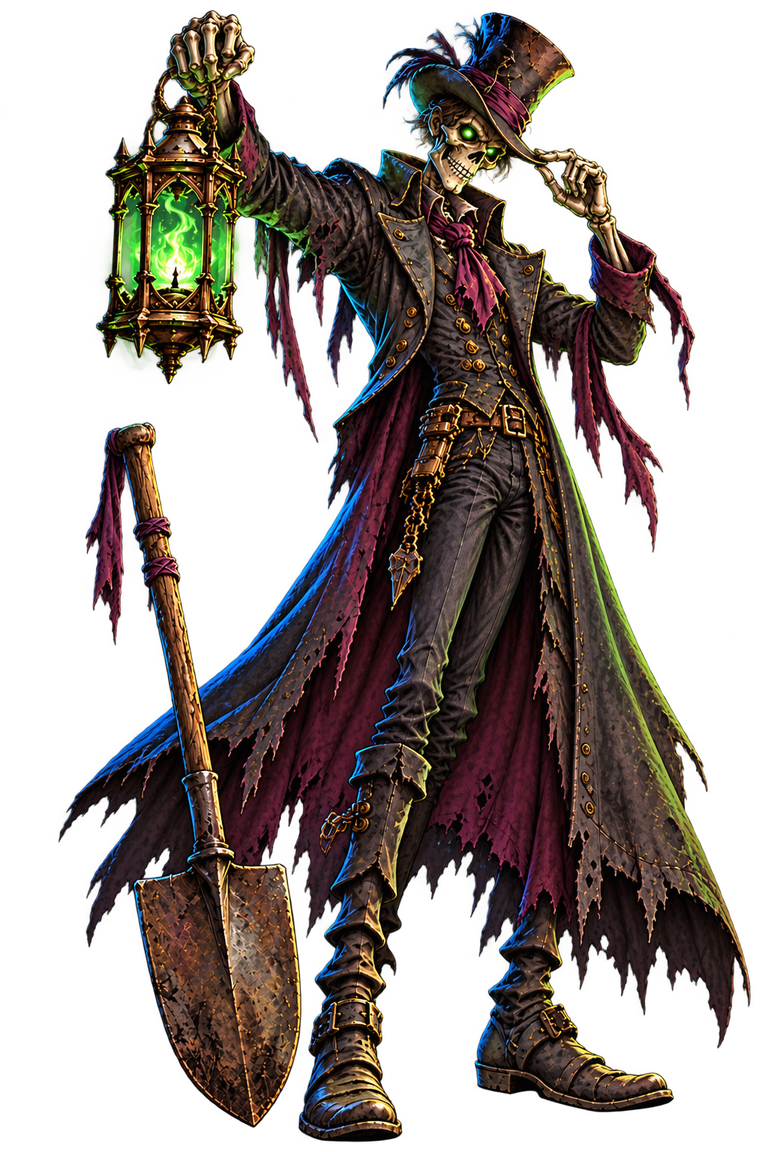
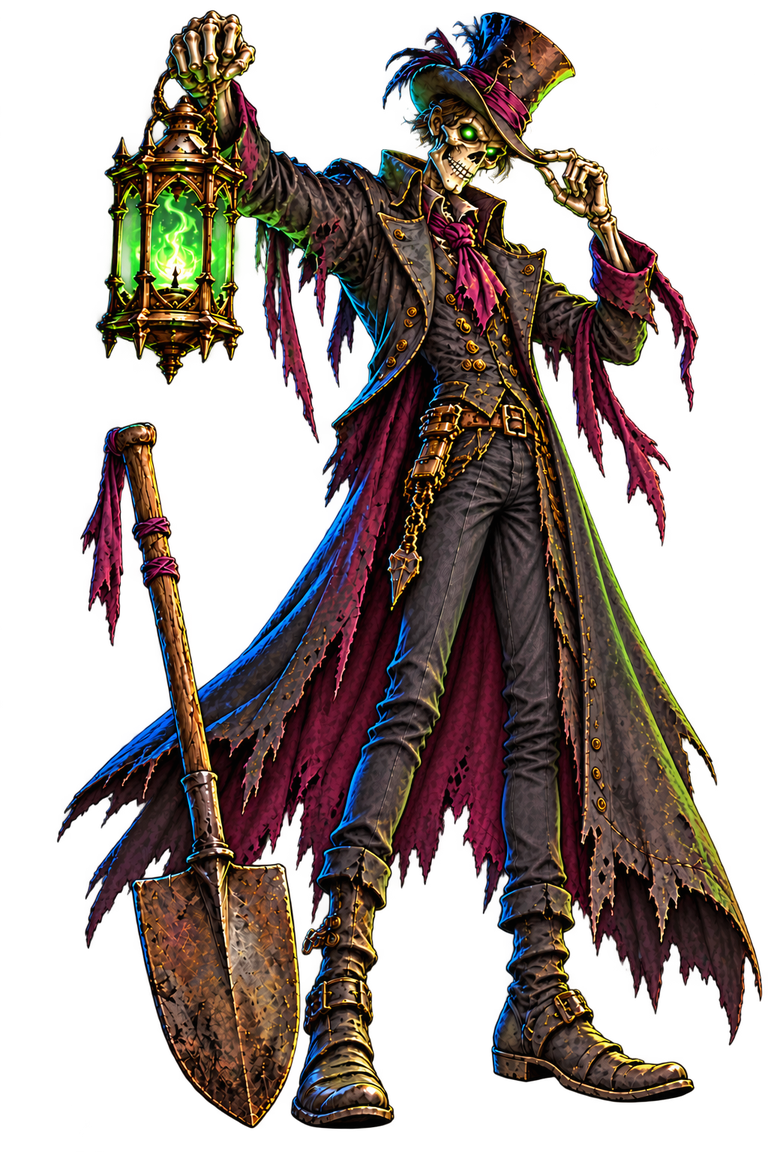
Fix Mortimer hat-tip pose to show exactly two legs

Changed region(s): [[0.0625, 0.0, 1.0, 1.0]]

diff --git a/tools/validate_assets.py b/tools/validate_assets.py
@@ -50,7 +50,7 @@ def main():
             'checks':['Source and runtime SHA-256','All 11 GDD symbol codes','Dimensions, formats, real transparency','Full guide art inventory, with three cover drafts'],
             'visualReview':['All 11 symbols reviewed at 120 px in colour and grayscale','Desktop and portrait static layouts','Three poses: two arms, two legs, no cropped hat or boots','Base/bonus backgrounds preserve scene layout'],
             'limitations':['Art-stage candidate only; no animation, audio or playable frontend','Cover dimensions await the Engine dashboard','Recovered original prompts are unavailable','Base backgrounds and bonus backgrounds are upscaled exports; source pixels retained'],
-            'publication':'Blocked pending explicit user authorization to push artwork to public GitHub'}
+            'publication':'User explicitly authorized publishing corrected artwork and project changes to graveslon on 2026-10-21'}
     (ROOT/'reports/art-validation.json').write_text(json.dumps(result,indent=2)+'\n')
     print(json.dumps(result,indent=2))
 

diff --git a/docs/PROGRESS.md b/docs/PROGRESS.md
@@ -6,7 +6,7 @@
 |---|---|---|
 | 1. GDD | Локальная спецификация готова | GDD.md: 20 линий, выплаты, 11 символов, FS, множители, режимы, единицы |
 | 2. Математика | Локальный математический этап пройден | 100 000 исходов на режим, reports/math-report.json; все 200 000 книг прошли аудит reports/validation.json |
-| 3. Арт | Локальный кандидат готов | 15 исходников восстановлены, 4 новых; 56 экспортов, 3 обложки, docs/ART.md. Размер обложки сверить с кабинетом. Push артов в публичный GitHub ожидает явного согласия |
+| 3. Арт | Локальный кандидат готов | 15 исходников восстановлены, 4 новых; 56 экспортов, 3 обложки, docs/ART.md. Размер обложки сверить с кабинетом. Отправка артов явно разрешена пользователем 21.10.2026 |
 | 4. Анимация | Не начата | Вращение, anticipation, могилы, выигрыши, фон, пропуск |
 | 5. Звук | Нужен доступ к сервису | Методичка требует платный ElevenLabs. Подключённого инструмента нет; поиск доступных плагинов не нашёл интеграцию |
 | 6. Фронтенд и RGS | Не начат | Контракт событий подготовлен; нужна реализация и реальные staging-проверки |
@@ -41,11 +41,11 @@
   workflow №39399235557 успешен; новый полный математический прогон не заявляется.
 - Работа в ветке `work/art-recovery-20261021`. Автоматическая проверка дважды
   запретила push, поскольку репозиторий публичный и нужно явное разрешение
-  на публикацию восстановленных изображений. До такого разрешения работа локальная.
+  на публикацию восстановленных изображений. Пользователь 21.10.2026 дал это разрешение и попросил продолжить работу.
 
 ## Продолжение
 
-После разрешения отправить подготовленную ветку с артами в GitHub. Затем этап 4:
+Отправить исправленный арт в GitHub, затем этап 4:
 стенд анимаций по `docs/ART.md` и `docs/EVENTS.md`, без изменения математики.
 Во время создания арта сохранять исходники, промпты и производные файлы в
 репозитории. Не публиковать секреты.

diff --git a/docs/ART.md b/docs/ART.md
@@ -2,8 +2,8 @@
 
 Обновлено 21.10.2026. Этап 3: локальный кандидат собран и проверен.
 Это ассеты и статичные макеты, а не работающий слот. Размеры обложки нужно
-подтвердить в кабинете Engine. Публикация файлов в публичный GitHub ожидает
-явного согласия пользователя после отказа автоматической проверки.
+подтвердить в кабинете Engine. Пользователь 21.10.2026 явно разрешил отправить исправленные арты и изменения
+в репозиторий. Исправлена анатомия позы со шляпой: две ноги и два ботинка.
 
 ## Что восстановлено
 
